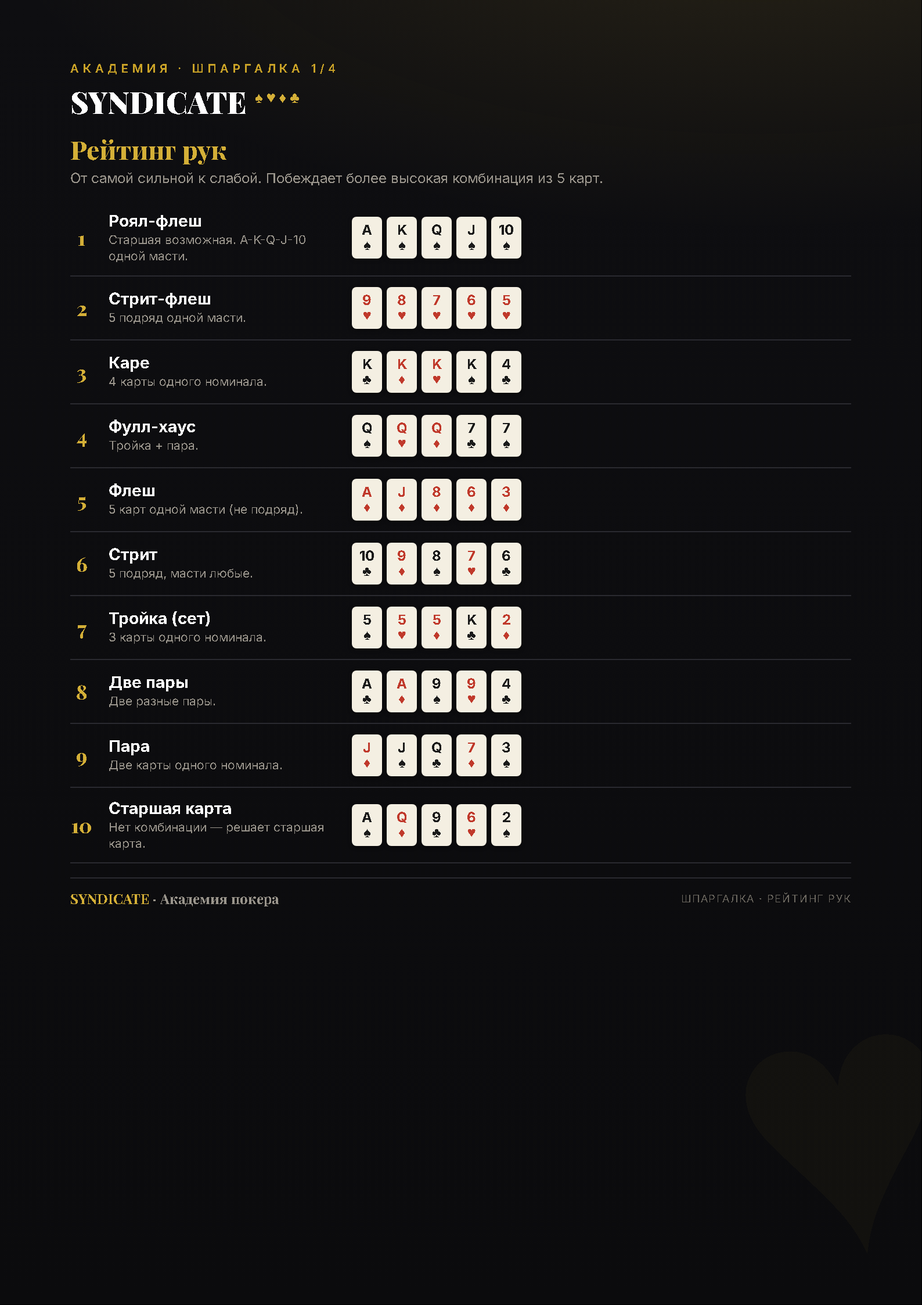
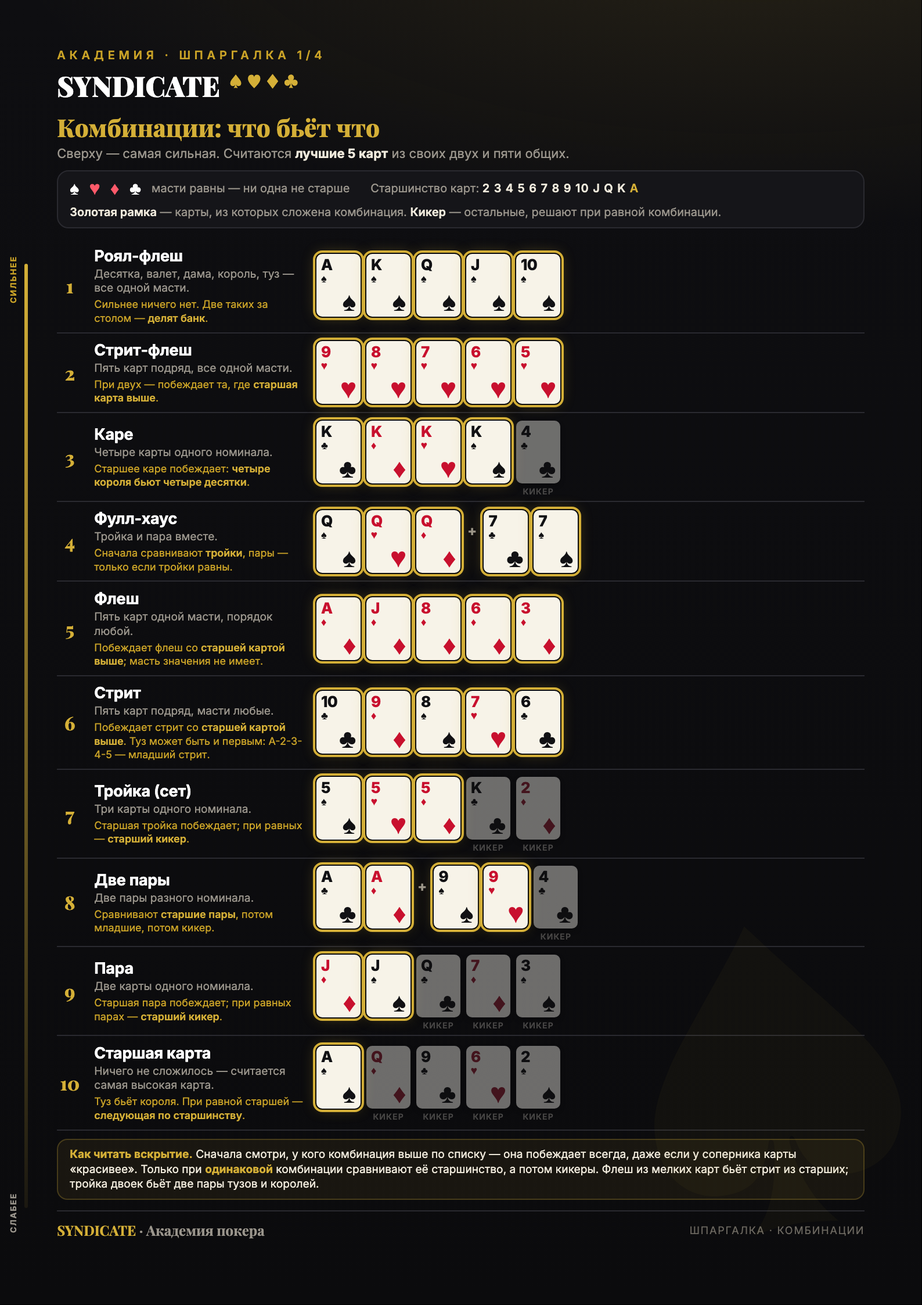
Шпаргалка комбинаций: настоящие карты, подсветка комбинации, правила при равной

Changed region(s): [[0.0617, 0.0312, 0.9257, 0.9662], [0.0, 0.187, 0.0309, 0.8727]]

diff --git a/uroki/shpora-ruki.html b/uroki/shpora-ruki.html
@@ -1,71 +1,195 @@
 <!doctype html><html lang="ru"><head><meta charset="utf-8"><meta name="robots" content="noindex,nofollow">
+<title>SYNDICATE — Шпаргалка: комбинации</title>
 <style>
-@import url('https://fonts.googleapis.com/css2?family=Playfair+Display:wght@700;800;900&family=Inter:wght@400;500;600;700&display=swap');
-:root{--gold:#d4af37;--gold-soft:#c9a227;--ink:#efe9db;--muted:#9a958c;--line:#2a2a30;--panel:#151519}
+@import url('https://fonts.googleapis.com/css2?family=Playfair+Display:wght@700;800;900&family=Inter:wght@400;500;600;700;800&display=swap');
+:root{--gold:#d4af37;--gold-soft:#c9a227;--ink:#efe9db;--muted:#9a958c;--line:#2a2a30;--panel:#151519;
+  --red:#c8102e;--black:#111114;--paper:#f7f3e8}
 @page{size:A4;margin:0}
 *{margin:0;padding:0;box-sizing:border-box}
 html,body{background:#000}
 body{font-family:'Inter',Arial,sans-serif;color:var(--ink);-webkit-print-color-adjust:exact;print-color-adjust:exact}
 .page{width:210mm;min-height:297mm;position:relative;overflow:hidden;
-  background:radial-gradient(1100px 480px at 82% -8%,rgba(212,175,55,.13),transparent 60%),linear-gradient(180deg,#0e0e11,#0b0b0d);padding:14mm 16mm 12mm}
+  background:radial-gradient(1100px 480px at 82% -8%,rgba(212,175,55,.13),transparent 60%),linear-gradient(180deg,#0e0e11,#0b0b0d);padding:11mm 13mm 9mm}
 .suit-bg{position:absolute;font-family:'Playfair Display',serif;color:rgba(212,175,55,.04);font-size:300px;bottom:-30px;right:-20px;transform:rotate(-10deg);font-weight:800}
 .kicker{font-size:10px;letter-spacing:.34em;text-transform:uppercase;color:var(--gold-soft);font-weight:600}
-.brand{font-family:'Playfair Display',serif;font-weight:900;font-size:26px;color:#fff;margin:5px 0 1px}
+.brand{font-family:'Playfair Display',serif;font-weight:900;font-size:24px;color:#fff;margin:4px 0 0}
 .brand .s{color:var(--gold);font-size:13px;vertical-align:super;margin-left:7px}
-.h1{font-family:'Playfair Display',serif;font-size:22px;color:var(--gold);font-weight:800;margin:9px 0 3px}
-.sub{font-size:12px;color:var(--muted);margin-bottom:12px}
+.top{display:block}
+.brand,.kicker,.h1{white-space:nowrap}
+.h1{font-family:'Playfair Display',serif;font-size:21px;color:var(--gold);font-weight:800;margin:6px 0 2px}
+.sub{font-size:11px;color:var(--muted)}
 
-.row{display:flex;align-items:center;gap:13px;padding:9px 0;border-bottom:1px solid var(--line)}
-.rank{font-family:'Playfair Display',serif;font-weight:800;color:var(--gold);font-size:17px;width:20px;text-align:center}
-.info{width:52mm;flex-shrink:0}
-.info .nm{font-size:14px;color:#fff;font-weight:700}
-.info .d{font-size:10.5px;color:var(--muted);line-height:1.35;margin-top:1px}
-.cards{display:flex;gap:4px}
-.card{width:26px;height:36px;border-radius:4px;background:#f4efe2;color:#1a1a1a;display:flex;flex-direction:column;align-items:center;justify-content:center;font-weight:700;font-size:12px;line-height:1;box-shadow:0 1px 3px rgba(0,0,0,.5);position:relative}
-.card.r{color:#c0392b}
-.card .su{font-size:12px;margin-top:1px}
-.foot{margin-top:12px;padding-top:9px;border-top:1px solid var(--line);display:flex;justify-content:space-between;align-items:center}
+/* легенда: масти и порядок номиналов — во всю ширину под заголовком */
+.legend{background:var(--panel);border:1px solid var(--line);border-radius:10px;padding:7px 10px;font-size:10px;color:var(--muted);
+  margin-top:8px;display:flex;flex-wrap:wrap;gap:4px 18px;align-items:center}
+.legend b{color:var(--ink);font-weight:600}
+.legend .suits{display:flex;gap:9px;margin-bottom:0;font-size:15px;line-height:1;align-items:center}
+.legend .suits .r{color:#ff5a6a}.legend .suits .k{color:#fff}
+.legend .ord{letter-spacing:.06em;font-weight:600;color:var(--ink)}
+.legend .ord i{font-style:normal;color:var(--gold)}
+
+/* строки */
+.list{margin-top:9px}
+.row{display:grid;grid-template-columns:22px 48mm 1fr;align-items:center;gap:0 10px;padding:6.2px 0;border-bottom:1px solid var(--line)}
+.rank{font-family:'Playfair Display',serif;font-weight:800;color:var(--gold);font-size:16px;text-align:center}
+.info .nm{font-size:13.5px;color:#fff;font-weight:700;letter-spacing:-.01em}
+.info .d{font-size:9.6px;color:var(--muted);line-height:1.3;margin-top:1px}
+.info .w{font-size:9px;color:var(--gold-soft);line-height:1.3;margin-top:2px}
+.info .w b{color:var(--gold);font-weight:600}
+.hand{display:flex;gap:5px;align-items:flex-end}
+
+/* карта: крупный номинал в углу, масть по центру — как настоящая */
+.c{width:38px;height:54px;border-radius:5px;background:var(--paper);position:relative;
+   box-shadow:0 1px 0 rgba(255,255,255,.25) inset,0 2px 5px rgba(0,0,0,.6);color:var(--black);
+   font-family:'Inter',Arial,sans-serif;font-weight:800;flex-shrink:0}
+.c .n{position:absolute;left:4px;top:3px;font-size:13px;line-height:1;letter-spacing:-.03em}
+.c .n small{display:block;font-size:9px;line-height:1;margin-top:1px;font-weight:700}
+.c .m{position:absolute;right:4px;bottom:2px;font-size:22px;line-height:1}
+.c.r{color:var(--red)}
+.c.in{outline:2px solid var(--gold);outline-offset:1px;box-shadow:0 0 0 1px #0b0b0d,0 0 12px rgba(212,175,55,.35),0 2px 5px rgba(0,0,0,.6)}
+.c.k{opacity:.42;filter:saturate(.6)}
+.c.k::after{content:"кикер";position:absolute;left:0;right:0;bottom:-11px;font-size:7px;letter-spacing:.08em;text-transform:uppercase;color:var(--muted);text-align:center;font-weight:600;opacity:1}
+.hand.has-k{padding-bottom:9px}
+.plus{color:var(--muted);font-size:12px;font-weight:700;margin:0 1px 18px;align-self:center}
+
+/* шкала силы слева */
+.scale{position:absolute;left:5.5mm;top:60mm;bottom:22mm;width:3px;border-radius:3px;
+  background:linear-gradient(180deg,var(--gold),rgba(212,175,55,.08))}
+.scale i{position:absolute;left:-14px;font-size:7px;letter-spacing:.14em;text-transform:uppercase;color:var(--gold-soft);font-style:normal;font-weight:700;transform:rotate(-90deg);transform-origin:left top;white-space:nowrap}
+.scale i.t{top:34px}.scale i.b{bottom:-30px;color:var(--muted)}
+
+.foot{margin-top:9px;padding-top:8px;border-top:1px solid var(--line);display:flex;justify-content:space-between;align-items:center}
 .foot .l{font-family:'Playfair Display',serif;font-size:12px;color:var(--muted)}.foot .l b{color:var(--gold)}
 .foot .m{font-size:9px;color:#6c6860;letter-spacing:.1em;text-transform:uppercase}
+.rule{margin-top:7px;background:rgba(212,175,55,.07);border:1px solid rgba(212,175,55,.25);border-radius:9px;padding:6px 10px;font-size:9.6px;color:var(--ink);line-height:1.35}
+.rule b{color:var(--gold)}
 </style></head>
 <body>
 <div class="page">
-  <div class="suit-bg">♥</div>
-  <div class="kicker">Академия · Шпаргалка 1/4</div>
-  <div class="brand">SYNDICATE<span class="s">♠ ♥ ♦ ♣</span></div>
-  <div class="h1">Рейтинг рук</div>
-  <div class="sub">От самой сильной к слабой. Побеждает более высокая комбинация из 5 карт.</div>
+  <div class="suit-bg">♠</div>
+  <div class="scale"><i class="t">сильнее</i><i class="b">слабее</i></div>
+  <div class="top">
+    <div>
+      <div class="kicker">Академия · Шпаргалка 1/4</div>
+      <div class="brand">SYNDICATE<span class="s">♠ ♥ ♦ ♣</span></div>
+      <div class="h1">Комбинации: что бьёт что</div>
+      <div class="sub">Сверху — самая сильная. Считаются <b style="color:var(--ink)">лучшие 5 карт</b> из своих двух и пяти общих.</div>
+    </div>
+    <div class="legend">
+      <div class="suits"><span class="k">♠</span><span class="r">♥</span><span class="r">♦</span><span class="k">♣</span> <span style="font-size:10px;align-self:center;color:var(--muted)">масти равны — ни одна не старше</span></div>
+      <div>Старшинство карт: <span class="ord">2 3 4 5 6 7 8 9 10 J Q K <i>A</i></span></div>
+      <div style="margin-top:3px"><b>Золотая рамка</b> — карты, из которых сложена комбинация. <b>Кикер</b> — остальные, решают при равной комбинации.</div>
+    </div>
+  </div>
 
-  <div class="row"><div class="rank">1</div><div class="info"><div class="nm">Роял-флеш</div><div class="d">Старшая возможная. A-K-Q-J-10 одной масти.</div></div>
-    <div class="cards"><div class="card">A<span class="su">♠</span></div><div class="card">K<span class="su">♠</span></div><div class="card">Q<span class="su">♠</span></div><div class="card">J<span class="su">♠</span></div><div class="card">10<span class="su">♠</span></div></div></div>
+  <div class="list">
 
-  <div class="row"><div class="rank">2</div><div class="info"><div class="nm">Стрит-флеш</div><div class="d">5 подряд одной масти.</div></div>
-    <div class="cards"><div class="card r">9<span class="su">♥</span></div><div class="card r">8<span class="su">♥</span></div><div class="card r">7<span class="su">♥</span></div><div class="card r">6<span class="su">♥</span></div><div class="card r">5<span class="su">♥</span></div></div></div>
+  <div class="row"><div class="rank">1</div>
+    <div class="info"><div class="nm">Роял-флеш</div><div class="d">Десятка, валет, дама, король, туз — все одной масти.</div><div class="w">Сильнее ничего нет. Две таких за столом — <b>делят банк</b>.</div></div>
+    <div class="hand">
+      <div class="c in"><span class="n">A<small>♠</small></span><span class="m">♠</span></div>
+      <div class="c in"><span class="n">K<small>♠</small></span><span class="m">♠</span></div>
+      <div class="c in"><span class="n">Q<small>♠</small></span><span class="m">♠</span></div>
+      <div class="c in"><span class="n">J<small>♠</small></span><span class="m">♠</span></div>
+      <div class="c in"><span class="n">10<small>♠</small></span><span class="m">♠</span></div>
+    </div></div>
 
-  <div class="row"><div class="rank">3</div><div class="info"><div class="nm">Каре</div><div class="d">4 карты одного номинала.</div></div>
-    <div class="cards"><div class="card">K<span class="su">♣</span></div><div class="card r">K<span class="su">♦</span></div><div class="card r">K<span class="su">♥</span></div><div class="card">K<span class="su">♠</span></div><div class="card">4<span class="su">♣</span></div></div></div>
+  <div class="row"><div class="rank">2</div>
+    <div class="info"><div class="nm">Стрит-флеш</div><div class="d">Пять карт подряд, все одной масти.</div><div class="w">При двух — побеждает та, где <b>старшая карта выше</b>.</div></div>
+    <div class="hand">
+      <div class="c r in"><span class="n">9<small>♥</small></span><span class="m">♥</span></div>
+      <div class="c r in"><span class="n">8<small>♥</small></span><span class="m">♥</span></div>
+      <div class="c r in"><span class="n">7<small>♥</small></span><span class="m">♥</span></div>
+      <div class="c r in"><span class="n">6<small>♥</small></span><span class="m">♥</span></div>
+      <div class="c r in"><span class="n">5<small>♥</small></span><span class="m">♥</span></div>
+    </div></div>
 
-  <div class="row"><div class="rank">4</div><div class="info"><div class="nm">Фулл-хаус</div><div class="d">Тройка + пара.</div></div>
-    <div class="cards"><div class="card">Q<span class="su">♠</span></div><div class="card r">Q<span class="su">♥</span></div><div class="card r">Q<span class="su">♦</span></div><div class="card">7<span class="su">♣</span></div><div class="card">7<span class="su">♠</span></div></div></div>
+  <div class="row"><div class="rank">3</div>
+    <div class="info"><div class="nm">Каре</div><div class="d">Четыре карты одного номинала.</div><div class="w">Старшее каре побеждает: <b>четыре короля бьют четыре десятки</b>.</div></div>
+    <div class="hand has-k">
+      <div class="c in"><span class="n">K<small>♣</small></span><span class="m">♣</span></div>
+      <div class="c r in"><span class="n">K<small>♦</small></span><span class="m">♦</span></div>
+      <div class="c r in"><span class="n">K<small>♥</small></span><span class="m">♥</span></div>
+      <div class="c in"><span class="n">K<small>♠</small></span><span class="m">♠</span></div>
+      <div class="c k"><span class="n">4<small>♣</small></span><span class="m">♣</span></div>
+    </div></div>
 
-  <div class="row"><div class="rank">5</div><div class="info"><div class="nm">Флеш</div><div class="d">5 карт одной масти (не подряд).</div></div>
-    <div class="cards"><div class="card r">A<span class="su">♦</span></div><div class="card r">J<span class="su">♦</span></div><div class="card r">8<span class="su">♦</span></div><div class="card r">6<span class="su">♦</span></div><div class="card r">3<span class="su">♦</span></div></div></div>
+  <div class="row"><div class="rank">4</div>
+    <div class="info"><div class="nm">Фулл-хаус</div><div class="d">Тройка и пара вместе.</div><div class="w">Сначала сравнивают <b>тройки</b>, пары — только если тройки равны.</div></div>
+    <div class="hand">
+      <div class="c in"><span class="n">Q<small>♠</small></span><span class="m">♠</span></div>
+      <div class="c r in"><span class="n">Q<small>♥</small></span><span class="m">♥</span></div>
+      <div class="c r in"><span class="n">Q<small>♦</small></span><span class="m">♦</span></div>
+      <span class="plus">+</span>
+      <div class="c in"><span class="n">7<small>♣</small></span><span class="m">♣</span></div>
+      <div class="c in"><span class="n">7<small>♠</small></span><span class="m">♠</span></div>
+    </div></div>
 
-  <div class="row"><div class="rank">6</div><div class="info"><div class="nm">Стрит</div><div class="d">5 подряд, масти любые.</div></div>
-    <div class="cards"><div class="card">10<span class="su">♣</span></div><div class="card r">9<span class="su">♦</span></div><div class="card">8<span class="su">♠</span></div><div class="card r">7<span class="su">♥</span></div><div class="card">6<span class="su">♣</span></div></div></div>
+  <div class="row"><div class="rank">5</div>
+    <div class="info"><div class="nm">Флеш</div><div class="d">Пять карт одной масти, порядок любой.</div><div class="w">Побеждает флеш со <b>старшей картой выше</b>; масть значения не имеет.</div></div>
+    <div class="hand">
+      <div class="c r in"><span class="n">A<small>♦</small></span><span class="m">♦</span></div>
+      <div class="c r in"><span class="n">J<small>♦</small></span><span class="m">♦</span></div>
+      <div class="c r in"><span class="n">8<small>♦</small></span><span class="m">♦</span></div>
+      <div class="c r in"><span class="n">6<small>♦</small></span><span class="m">♦</span></div>
+      <div class="c r in"><span class="n">3<small>♦</small></span><span class="m">♦</span></div>
+    </div></div>
 
-  <div class="row"><div class="rank">7</div><div class="info"><div class="nm">Тройка (сет)</div><div class="d">3 карты одного номинала.</div></div>
-    <div class="cards"><div class="card">5<span class="su">♠</span></div><div class="card r">5<span class="su">♥</span></div><div class="card r">5<span class="su">♦</span></div><div class="card">K<span class="su">♣</span></div><div class="card r">2<span class="su">♦</span></div></div></div>
+  <div class="row"><div class="rank">6</div>
+    <div class="info"><div class="nm">Стрит</div><div class="d">Пять карт подряд, масти любые.</div><div class="w">Побеждает стрит со <b>старшей картой выше</b>. Туз может быть и первым: A-2-3-4-5 — младший стрит.</div></div>
+    <div class="hand">
+      <div class="c in"><span class="n">10<small>♣</small></span><span class="m">♣</span></div>
+      <div class="c r in"><span class="n">9<small>♦</small></span><span class="m">♦</span></div>
+      <div class="c in"><span class="n">8<small>♠</small></span><span class="m">♠</span></div>
+      <div class="c r in"><span class="n">7<small>♥</small></span><span class="m">♥</span></div>
+      <div class="c in"><span class="n">6<small>♣</small></span><span class="m">♣</span></div>
+    </div></div>
 
-  <div class="row"><div class="rank">8</div><div class="info"><div class="nm">Две пары</div><div class="d">Две разные пары.</div></div>
-    <div class="cards"><div class="card">A<span class="su">♣</span></div><div class="card r">A<span class="su">♦</span></div><div class="card">9<span class="su">♠</span></div><div class="card r">9<span class="su">♥</span></div><div class="card">4<span class="su">♣</span></div></div></div>
+  <div class="row"><div class="rank">7</div>
+    <div class="info"><div class="nm">Тройка (сет)</div><div class="d">Три карты одного номинала.</div><div class="w">Старшая тройка побеждает; при равных — <b>старший кикер</b>.</div></div>
+    <div class="hand has-k">
+      <div class="c in"><span class="n">5<small>♠</small></span><span class="m">♠</span></div>
+      <div class="c r in"><span class="n">5<small>♥</small></span><span class="m">♥</span></div>
+      <div class="c r in"><span class="n">5<small>♦</small></span><span class="m">♦</span></div>
+      <div class="c k"><span class="n">K<small>♣</small></span><span class="m">♣</span></div>
+      <div class="c r k"><span class="n">2<small>♦</small></span><span class="m">♦</span></div>
+    </div></div>
 
-  <div class="row"><div class="rank">9</div><div class="info"><div class="nm">Пара</div><div class="d">Две карты одного номинала.</div></div>
-    <div class="cards"><div class="card r">J<span class="su">♦</span></div><div class="card">J<span class="su">♠</span></div><div class="card">Q<span class="su">♣</span></div><div class="card r">7<span class="su">♦</span></div><div class="card">3<span class="su">♠</span></div></div></div>
+  <div class="row"><div class="rank">8</div>
+    <div class="info"><div class="nm">Две пары</div><div class="d">Две пары разного номинала.</div><div class="w">Сравнивают <b>старшие пары</b>, потом младшие, потом кикер.</div></div>
+    <div class="hand has-k">
+      <div class="c in"><span class="n">A<small>♣</small></span><span class="m">♣</span></div>
+      <div class="c r in"><span class="n">A<small>♦</small></span><span class="m">♦</span></div>
+      <span class="plus">+</span>
+      <div class="c in"><span class="n">9<small>♠</small></span><span class="m">♠</span></div>
+      <div class="c r in"><span class="n">9<small>♥</small></span><span class="m">♥</span></div>
+      <div class="c k"><span class="n">4<small>♣</small></span><span class="m">♣</span></div>
+    </div></div>
 
-  <div class="row"><div class="rank">10</div><div class="info"><div class="nm">Старшая карта</div><div class="d">Нет комбинации — решает старшая карта.</div></div>
-    <div class="cards"><div class="card">A<span class="su">♠</span></div><div class="card r">Q<span class="su">♦</span></div><div class="card">9<span class="su">♣</span></div><div class="card r">6<span class="su">♥</span></div><div class="card">2<span class="su">♠</span></div></div></div>
+  <div class="row"><div class="rank">9</div>
+    <div class="info"><div class="nm">Пара</div><div class="d">Две карты одного номинала.</div><div class="w">Старшая пара побеждает; при равных парах — <b>старший кикер</b>.</div></div>
+    <div class="hand has-k">
+      <div class="c r in"><span class="n">J<small>♦</small></span><span class="m">♦</span></div>
+      <div class="c in"><span class="n">J<small>♠</small></span><span class="m">♠</span></div>
+      <div class="c k"><span class="n">Q<small>♣</small></span><span class="m">♣</span></div>
+      <div class="c r k"><span class="n">7<small>♦</small></span><span class="m">♦</span></div>
+      <div class="c k"><span class="n">3<small>♠</small></span><span class="m">♠</span></div>
+    </div></div>
 
-  <div class="foot"><div class="l"><b>SYNDICATE</b> · Академия покера</div><div class="m">Шпаргалка · рейтинг рук</div></div>
+  <div class="row"><div class="rank">10</div>
+    <div class="info"><div class="nm">Старшая карта</div><div class="d">Ничего не сложилось — считается самая высокая карта.</div><div class="w">Туз бьёт короля. При равной старшей — <b>следующая по старшинству</b>.</div></div>
+    <div class="hand has-k">
+      <div class="c in"><span class="n">A<small>♠</small></span><span class="m">♠</span></div>
+      <div class="c r k"><span class="n">Q<small>♦</small></span><span class="m">♦</span></div>
+      <div class="c k"><span class="n">9<small>♣</small></span><span class="m">♣</span></div>
+      <div class="c r k"><span class="n">6<small>♥</small></span><span class="m">♥</span></div>
+      <div class="c k"><span class="n">2<small>♠</small></span><span class="m">♠</span></div>
+    </div></div>
+
+  </div>
+
+  <div class="rule"><b>Как читать вскрытие.</b> Сначала смотри, у кого комбинация выше по списку — она побеждает всегда, даже если у соперника карты «красивее». Только при <b>одинаковой</b> комбинации сравнивают её старшинство, а потом кикеры. Флеш из мелких карт бьёт стрит из старших; тройка двоек бьёт две пары тузов и королей.</div>
+
+  <div class="foot"><div class="l"><b>SYNDICATE</b> · Академия покера</div><div class="m">Шпаргалка · комбинации</div></div>
 </div>
 </body></html>

diff --git a/app/index.html b/app/index.html
@@ -14,7 +14,7 @@
 <link rel="preconnect" href="https://fonts.googleapis.com">
 <link rel="preconnect" href="https://fonts.gstatic.com" crossorigin>
 <link rel="stylesheet" href="https://fonts.googleapis.com/css2?family=Playfair+Display:wght@700;800;900&family=Inter:wght@400;500;600;700;800&display=swap">
-<link rel="stylesheet" href="app.css?v=202609031113">
+<link rel="stylesheet" href="app.css?v=202609031119">
 </head>
 <body>
 
@@ -324,10 +324,10 @@
      (file://, где fetch запрещён), и с хостинга. Генерируются build-data.py из JSON. -->
 <!-- ?v= — метка версии: deploy.sh подставляет в неё дату сборки, иначе телефон
      ученика месяцами показывает старый app.js из кэша. -->
-<script src="data/quiz.js?v=202609031113"></script>
-<script src="data/content.js?v=202609031113"></script>
-<script src="data/drills.js?v=202609031113"></script>
-<script src="data/glossary.js?v=202609031113"></script>
-<script src="app.js?v=202609031113"></script>
+<script src="data/quiz.js?v=202609031119"></script>
+<script src="data/content.js?v=202609031119"></script>
+<script src="data/drills.js?v=202609031119"></script>
+<script src="data/glossary.js?v=202609031119"></script>
+<script src="app.js?v=202609031119"></script>
 </body>
 </html>

diff --git a/app/sw.js b/app/sw.js
@@ -11,7 +11,7 @@
      помечены ?v=<дата>, новая сборка = новый адрес = промах кэша и свежая версия;
    - чужие домены (Telegram SDK, шрифты) не трогаем вообще.
 */
-const V = 'syn-academia-202609031113';   // deploy.sh подставляет сюда дату сборки
+const V = 'syn-academia-202609031119';   // deploy.sh подставляет сюда дату сборки
 
 self.addEventListener('install', () => self.skipWaiting());
 
